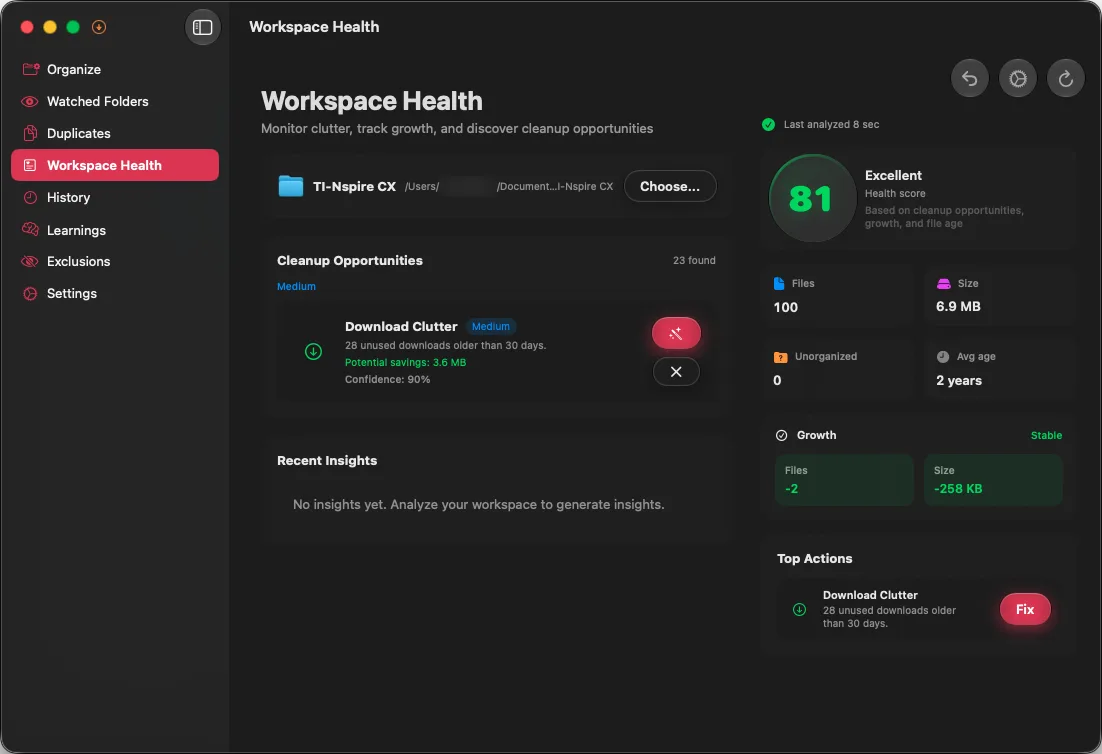
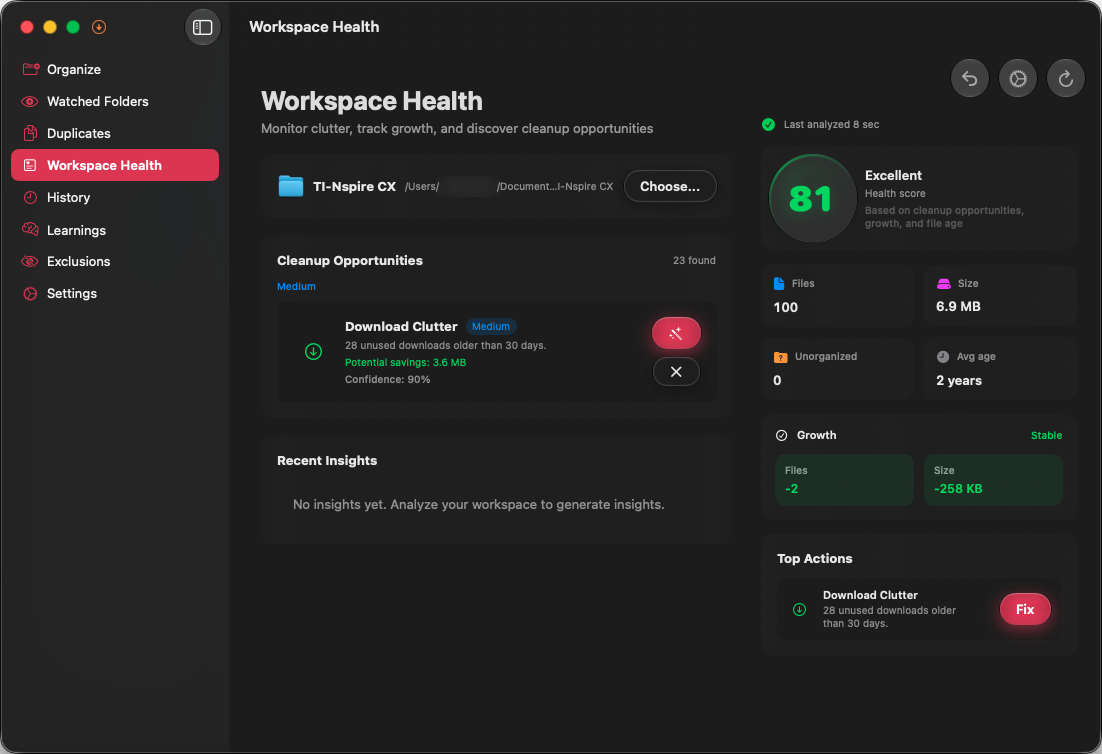
Improve website screenshot quality

diff --git a/website/components/features.tsx b/website/components/features.tsx
@@ -49,28 +49,28 @@ const FEATURES = [
 
 const SHOTS = [
   {
-    src: '/sorty-apply.webp?v=f375963a',
+    src: '/sorty-apply.webp?v=lossless-1',
     icon: Eye,
     title: 'Preview every move',
     body: 'Review the apply step before Sorty touches a file.',
     alt: 'Sorty apply screen showing proposed file moves ready for review.',
   },
   {
-    src: '/sorty-settings.webp?v=f375963a',
+    src: '/sorty-settings.webp?v=lossless-1',
     icon: Settings,
     title: 'Choose your AI provider',
     body: 'Connect a cloud provider or run everything locally with Ollama.',
     alt: 'Sorty AI provider settings screen showing configured model providers.',
   },
   {
-    src: '/sorty-health.webp?v=f375963a',
+    src: '/sorty-health.webp?v=lossless-1',
     icon: Activity,
     title: 'Keep workspaces healthy',
     body: 'See clutter, stale folders, and automation status in one place.',
     alt: 'Sorty workspace health screen showing folder health insights.',
   },
   {
-    src: '/sorty-duplicates.webp?v=f375963a',
+    src: '/sorty-duplicates.webp?v=lossless-1',
     icon: CopyCheck,
     title: 'Review duplicates clearly',
     body: 'Compare duplicate candidates before choosing what stays.',

diff --git a/website/components/hero.tsx b/website/components/hero.tsx
@@ -226,7 +226,7 @@ export function Hero() {
             className="pointer-events-none absolute inset-x-10 -top-px h-px bg-gradient-to-r from-transparent via-primary/60 to-transparent"
           />
           <Image
-            src={sitePath('/sorty-app.webp?v=f375963a')}
+            src={sitePath('/sorty-app.webp?v=lossless-1')}
             alt="The Sorty app prompting the user to select a directory to organize."
             width={1102}
             height={754}
